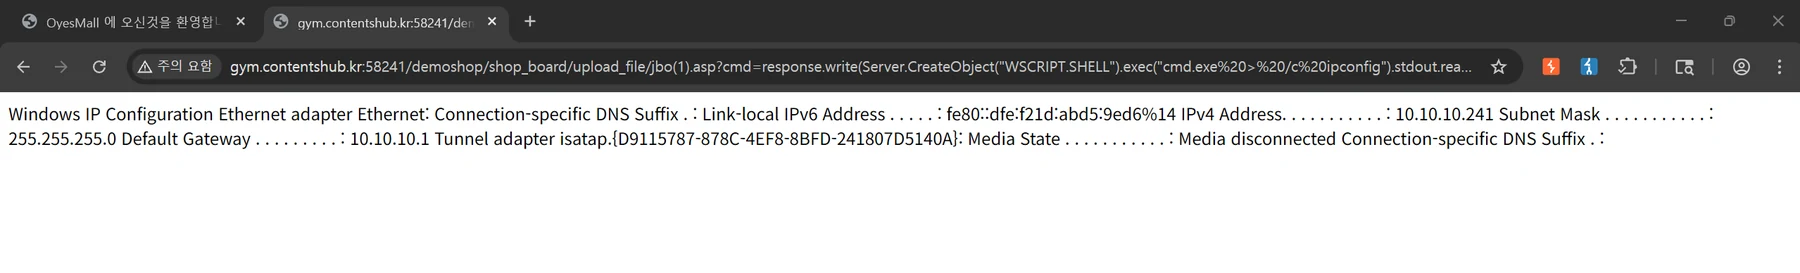
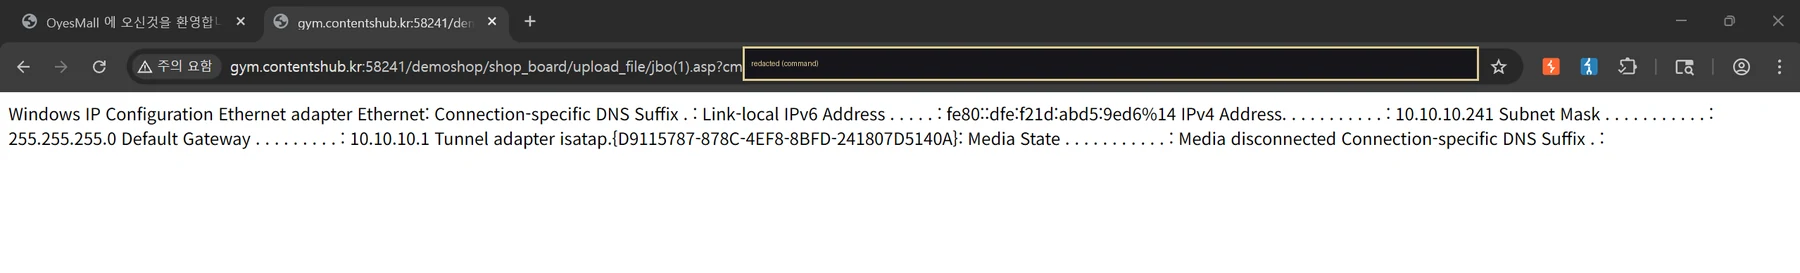
Expand web practices with evidence and redact exposed command strings

Changed region(s): [[0.4044, 0.1465, 0.84, 0.3223]]

diff --git a/index.html b/index.html
@@ -841,18 +841,28 @@
       </article>
       <article class="wuitem" id="it-xss">
         <div class="wuih"><span class="ft">XSS</span><h3>저장형 XSS</h3><a class="anchor" href="#xss">#xss</a></div>
-        <p>저장한 스크립트가 글을 열었을 때 실행되는 것을 확인했습니다. 실행 범위는 실습 계정의 브라우저이며, 세션 탈취는 확인하지 않았습니다.</p>
-        <figure class="fig"><button class="zoom" aria-label="확대: XSS"><img src="assets/img/webdiag-02.webp" alt="저장형 XSS 실행" loading="lazy"></button><figcaption>열람 시 저장 스크립트 실행</figcaption></figure>
+        <p>게시판 글 내용에 스크립트를 저장하고, 그 글을 열었을 때 스크립트가 실행되는 것을 확인했습니다. 실행 범위는 실습 계정의 브라우저이며, 세션 탈취는 확인하지 않았습니다.</p>
+        <div class="figrow two" style="margin-top:16px">
+          <figure class="fig"><button class="zoom" aria-label="확대: 스크립트 저장"><img src="assets/img/webdiag-04.webp" alt="글 내용(HTML)에 스크립트 태그를 넣어 저장하는 화면" loading="lazy"></button><figcaption>저장 — 글 내용(HTML)에 스크립트 태그를 넣어 저장했습니다(교육용 리다이렉트 예제).</figcaption></figure>
+          <figure class="fig"><button class="zoom" aria-label="확대: 스크립트 실행"><img src="assets/img/webdiag-02.webp" alt="저장된 글을 열자 스크립트가 실행된 결과" loading="lazy"></button><figcaption>실행 — 저장된 글을 열자 스크립트가 실행되는 것을 확인했습니다.</figcaption></figure>
+        </div>
       </article>
       <article class="wuitem" id="it-csrf">
         <div class="wuih"><span class="ft">CSRF</span><h3>CSRF 댓글 작성 요청</h3><a class="anchor" href="#csrf">#csrf</a></div>
-        <p>외부 요청만으로 댓글이 작성되는 흐름을 확인했습니다. 다른 세션 권한에 미치는 영향은 확인하지 않았습니다.</p>
-        <figure class="fig"><button class="zoom" aria-label="확대: CSRF"><img src="assets/img/webdiag-07.webp" alt="CSRF 댓글 작성" loading="lazy"></button><figcaption>자동 요청에 의한 댓글 작성</figcaption></figure>
+        <p>피해자가 숨겨진 요청이 담긴 글을 열기만 해도 피해자 권한으로 댓글이 작성되는 흐름을 확인했습니다. 다른 세션 권한에 미치는 영향은 확인하지 않았습니다.</p>
+        <div class="figrow two" style="margin-top:16px">
+          <figure class="fig"><button class="zoom" aria-label="확대: CSRF 요청"><img src="assets/img/webdiag-06.webp" alt="댓글 작성 요청을 자동으로 보내는 iframe을 글 내용에 삽입한 화면(비밀번호 값은 가림)" loading="lazy"></button><figcaption>요청 — 댓글 작성 요청을 자동으로 보내는 iframe을 글 내용에 심었습니다. 요청의 비밀번호 값은 가렸습니다.</figcaption></figure>
+          <figure class="fig"><button class="zoom" aria-label="확대: CSRF 결과"><img src="assets/img/webdiag-07.webp" alt="CSRF로 자동 작성된 댓글" loading="lazy"></button><figcaption>결과 — 글을 연 것만으로 댓글이 자동 작성된 것을 확인했습니다.</figcaption></figure>
+        </div>
       </article>
       <article class="wuitem" id="it-upload">
         <div class="wuih"><span class="ft">UPLOAD</span><h3>악성 파일 업로드</h3><a class="anchor" href="#upload">#upload</a></div>
-        <p>업로드 성공 응답을 확인했습니다. 업로드한 파일이 서버에서 실행되는지는 확인하지 않았습니다.</p>
-        <figure class="fig"><button class="zoom" aria-label="확대: 업로드"><img src="assets/img/webdiag-34.webp" alt="확장자 우회 업로드 응답" loading="lazy"></button><figcaption>확장자 우회 업로드 응답</figcaption></figure>
+        <p>확장자를 제한하는 클라이언트 검사를 우회해 서버에 스크립트 파일을 올리고, 그 파일이 서버에서 실행되는 것까지 확인했습니다. 실행에 바로 쓸 수 있는 명령 문자열은 공개본에서 가렸습니다.</p>
+        <figure class="fig" style="max-width:560px;margin-top:16px"><button class="zoom" aria-label="확대: 확장자 검사"><img src="assets/img/webdiag-31.webp" alt="허용 확장자를 jpg·hwp·pdf·jpeg·txt로 제한한다는 클라이언트 알림" loading="lazy"></button><figcaption>클라이언트 검사 — 허용 확장자를 제한하는 알림이 뜨지만, 이 검사는 브라우저 쪽이라 우회할 수 있었습니다.</figcaption></figure>
+        <div class="figrow two" style="margin-top:14px">
+          <figure class="fig"><button class="zoom" aria-label="확대: 업로드 파일 실행"><img src="assets/img/webdiag-33.webp" alt="업로드한 ASP 파일에 접근하자 Hello World가 출력됨" loading="lazy"></button><figcaption>실행 확인 — 올린 ASP 파일에 접근하자 코드가 실행돼 결과가 출력됐습니다.</figcaption></figure>
+          <figure class="fig"><button class="zoom" aria-label="확대: 시스템 명령 실행"><img src="assets/img/webdiag-34.webp" alt="업로드한 ASP가 시스템 명령을 실행해 ipconfig 결과를 반환(URL의 명령 문자열은 가림)" loading="lazy"></button><figcaption>영향 — 같은 방식으로 시스템 명령을 실행해 내부 네트워크 정보(ipconfig)가 반환됐습니다. URL의 명령 문자열은 가렸습니다.</figcaption></figure>
+        </div>
       </article>
       <article class="wuitem" id="it-filedl">
         <div class="wuih"><span class="ft">PATH</span><h3>파일 다운로드 — 경로 조작</h3><a class="anchor" href="#filedl">#filedl</a></div>
